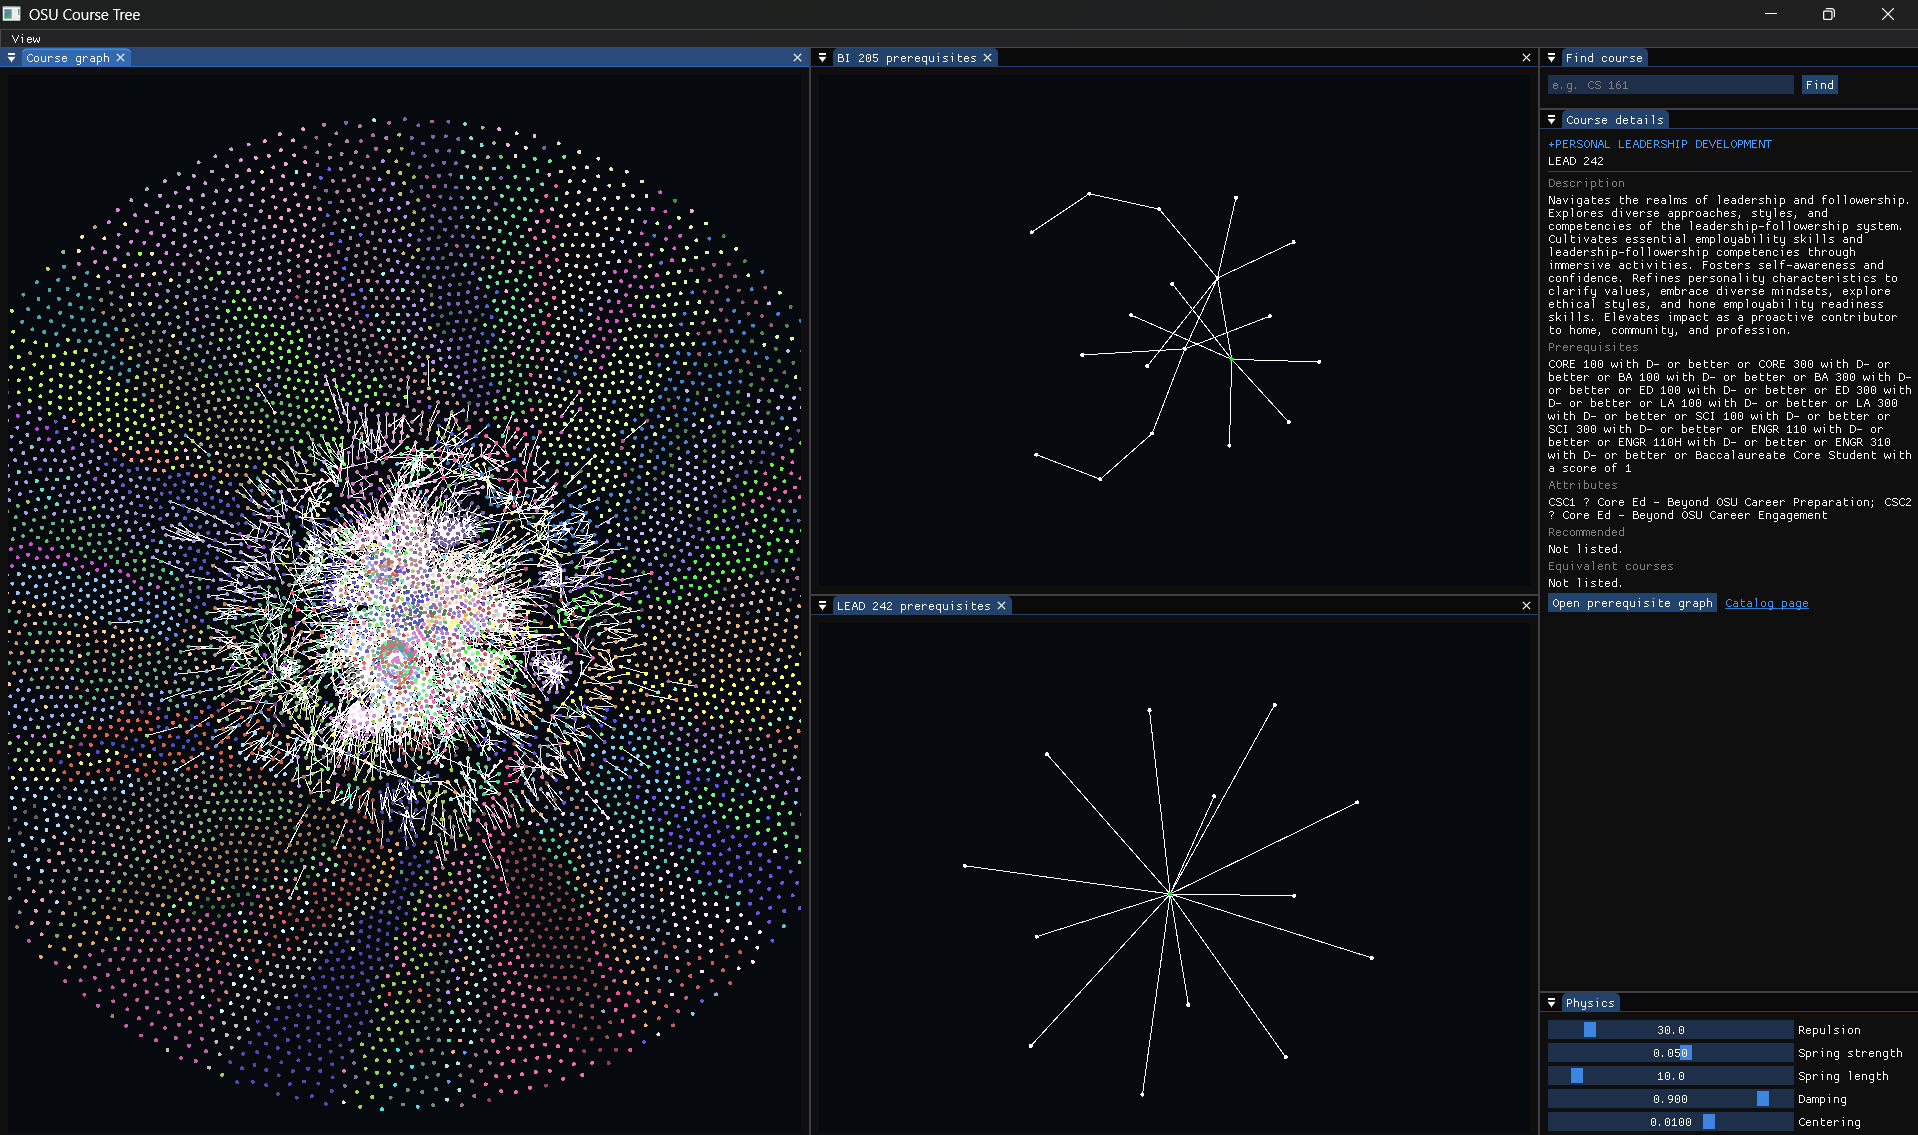
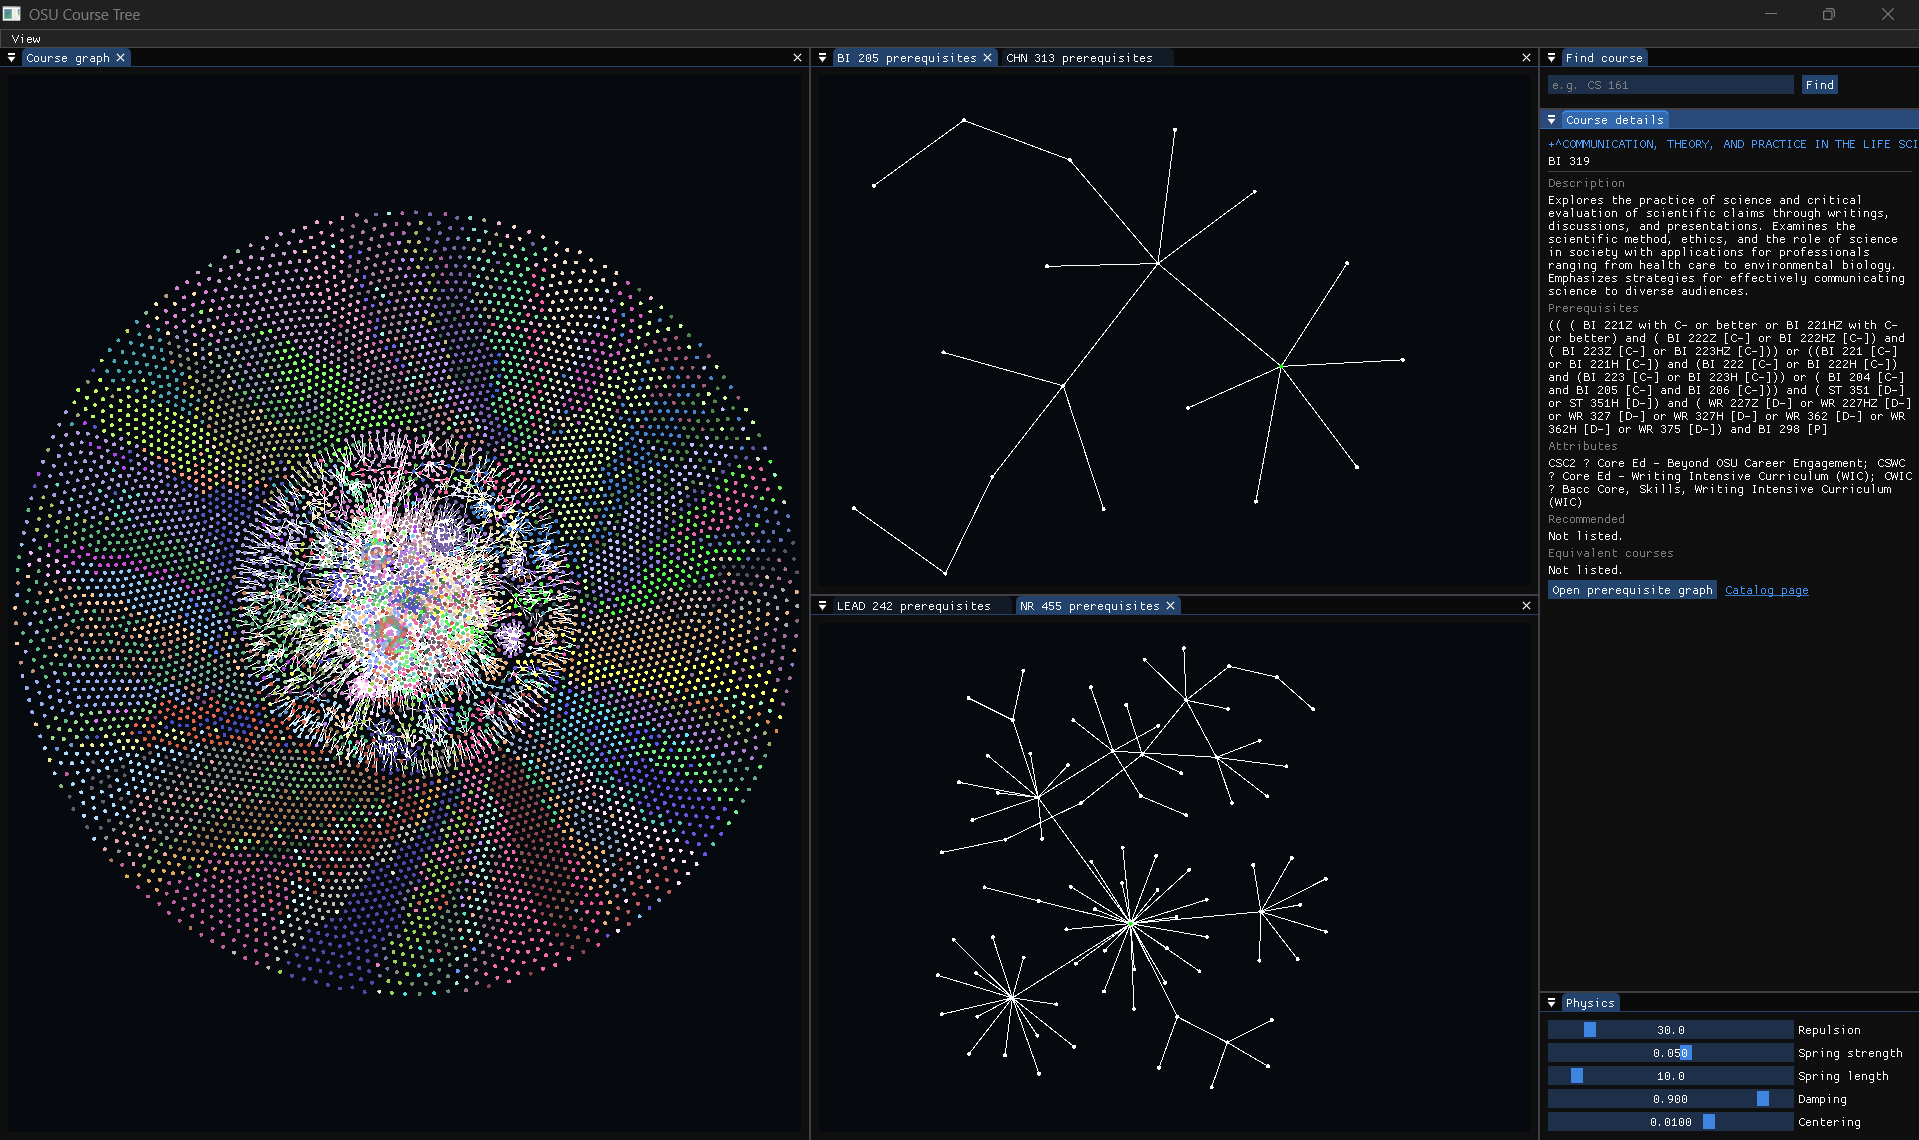
Fixed selecting of nodes on tabbed windows.

diff --git a/src/graph_window.cpp b/src/graph_window.cpp
@@ -4,6 +4,8 @@
 #include <cmath>
 #include <iostream>
 
+#include "imgui_internal.h"
+
 namespace {
 constexpr float kMinimumZoom = 1.5f;
 constexpr float kMaximumZoom = 60.0f;
@@ -152,16 +154,17 @@ void graph_window::update(float deltaTime) {
 void graph_window::process_event(const SDL_Event& event) {
     if (!open) return;
     const bool hover_graph = [&] {
-        switch (event.type) {
-            case SDL_EVENT_MOUSE_BUTTON_DOWN:
-            case SDL_EVENT_MOUSE_BUTTON_UP: return contains(graph_screen_pos, width, height, event.button.x, event.button.y);
-            case SDL_EVENT_MOUSE_MOTION: return contains(graph_screen_pos, width, height, event.motion.x, event.motion.y);
-            case SDL_EVENT_MOUSE_WHEEL: {
-                const ImVec2 mouse = ImGui::GetMousePos();
-                return contains(graph_screen_pos, width, height, mouse.x, mouse.y);
-            }
-            default: return false;
-        }
+        return is_mouse_over();
+        // switch (event.type) {
+        //     case SDL_EVENT_MOUSE_BUTTON_DOWN:
+        //     case SDL_EVENT_MOUSE_BUTTON_UP: return contains(graph_screen_pos, width, height, event.button.x, event.button.y);
+        //     case SDL_EVENT_MOUSE_MOTION: return contains(graph_screen_pos, width, height, event.motion.x, event.motion.y);
+        //     case SDL_EVENT_MOUSE_WHEEL: {
+        //         const ImVec2 mouse = ImGui::GetMousePos();
+        //         return contains(graph_screen_pos, width, height, mouse.x, mouse.y);
+        //     }
+        //     default: return false;
+        // }
     }();
     switch (event.type) {
         case SDL_EVENT_MOUSE_BUTTON_DOWN:
@@ -185,8 +188,8 @@ void graph_window::process_event(const SDL_Event& event) {
     }
 }
 
-Course graph_window::select_node_at_location(float mouse_x, float mouse_y) const {
-    if (!open || graph.nodes.empty() || !contains(graph_screen_pos, width, height, mouse_x, mouse_y)) return {};
+Course graph_window::select_node_at_location(float mouse_x, float mouse_y) {
+    if (!open || graph.nodes.empty() || !is_mouse_over()) return {};
     const float local_x = mouse_x - graph_screen_pos.x;
     const float local_y = mouse_y - graph_screen_pos.y;
     const float aspect = static_cast<float>(width) / static_cast<float>(height);
@@ -225,4 +228,15 @@ void graph_window::resize_fbo(int new_width, int new_height) {
     glBindTexture(GL_TEXTURE_2D, textureColorBuffer);
     glTexImage2D(GL_TEXTURE_2D, 0, GL_RGBA8, new_width, new_height, 0, GL_RGBA, GL_UNSIGNED_BYTE, nullptr);
     glBindTexture(GL_TEXTURE_2D, 0);
+}
+
+bool graph_window::is_mouse_over() {
+    ImGuiWindow* hoveredWindow = ImGui::GetCurrentContext()->HoveredWindow;
+
+    if (hoveredWindow != nullptr)
+    {
+        const char* windowName = hoveredWindow->Name;
+        if (windowName == title) return true;
+    }
+    return false;
 }

diff --git a/src/graph_window.h b/src/graph_window.h
@@ -15,12 +15,13 @@ public:
 
     void update(float deltaTime);
     void process_event(const SDL_Event& event);
-    [[nodiscard]] Course select_node_at_location(float mouse_x, float mouse_y) const;
+    [[nodiscard]] Course select_node_at_location(float mouse_x, float mouse_y);
     void set_physics_settings(float repulsion, float spring_strength, float spring_length, float spring_damping, float centering_strength);
     [[nodiscard]] bool is_open() const noexcept;
 
 private:
     void resize_fbo(int width, int height);
+    bool is_mouse_over();
 
     std::string title;
     bool open = true;
